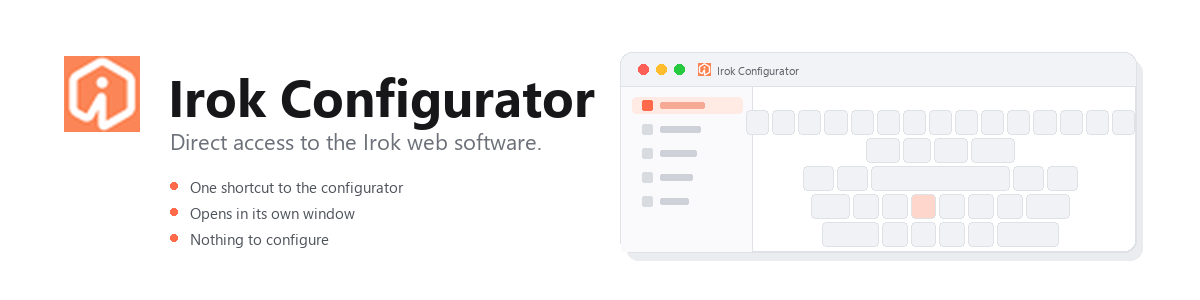
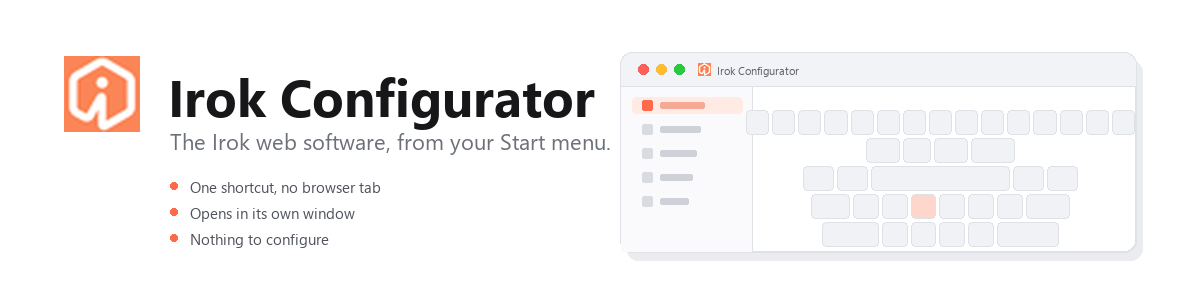
Fix four phrasings that read as filler
- Tagline was a noun phrase ('Direct access to the Irok web software')
  with no verb, so it described a category instead of doing anything.
  Now it is an instruction: open it from your Start menu.
- 'saves you those steps' named nothing. The paragraph now says what
  the window actually looks like: no tabs, no address bar.
- 'where I spend my time' was vague. 'the browser I actually use'.
- 'that dance' was a flourish covering an admission. 'It exists so I
  don't have to do that.'
- Hero tagline follows the README instead of paraphrasing it.

Changed region(s): [[0.1233, 0.45, 0.5242, 0.51], [0.2158, 0.6, 0.3392, 0.66]]

diff --git a/docs/make-hero.py b/docs/make-hero.py
@@ -62,11 +62,11 @@ def main():
     img.paste(icon_big, (64, 56), icon_big)
 
     d.text((168, 60), "Irok Configurator", font=f_title, fill=INK)
-    d.text((170, 126), "Direct access to the Irok web software.", font=f_tag, fill=MUTED)
+    d.text((170, 126), "The Irok web software, from your Start menu.", font=f_tag, fill=MUTED)
 
     # three quiet feature ticks, no arrows, no numbered steps
     f_tick = font("segoeui.ttf", 15)
-    ticks = ["One shortcut to the configurator", "Opens in its own window", "Nothing to configure"]
+    ticks = ["One shortcut, no browser tab", "Opens in its own window", "Nothing to configure"]
     ty = 176
     for t in ticks:
         d.ellipse((170, ty + 6, 170 + 7, ty + 13), fill=ORANGE)

diff --git a/README.md b/README.md
@@ -14,24 +14,24 @@
 
 # Irok Configurator
 
-Direct access to the [Irok web software](https://hid.irok.cn).
+Open the [Irok web software](https://hid.irok.cn) from your Start menu.
 
-The Irok driver lives in a browser tab, so reaching it means opening a browser and
-finding the page. This saves you those steps: one shortcut and the configurator is
-open, in its own window.
+The configurator is a web page, so getting to it normally means opening a browser
+and going to the address. This puts it in your Start menu and opens it in a window
+of its own, with no tabs and no address bar.
 
 It only launches. Keyboard settings aren't touched here and nothing is sent to
 your keyboard — that all still happens on Irok's site.
 
 ### Why I made it
 
-I use Firefox. The Irok web software talks to the keyboard through **WebHID**, a
-browser API that only Chromium-based browsers implement, so I couldn't use it
-where I spend my time. Every profile switch meant opening Chrome, navigating, and
-closing it again.
+I use Firefox. The Irok web software reaches the keyboard through **WebHID**, an API
+that only Chromium browsers implement, so I can't use it in the browser I actually
+use. Every profile switch meant opening Chrome, going to the page, and closing it
+again.
 
-For anyone with a compatible browser already open, this saves fewer clicks. It's
-mainly here so I could stop doing that dance.
+If you're already on a compatible browser, this saves you a few clicks. It exists
+so I don't have to do that.
 
 ## What you get
 
